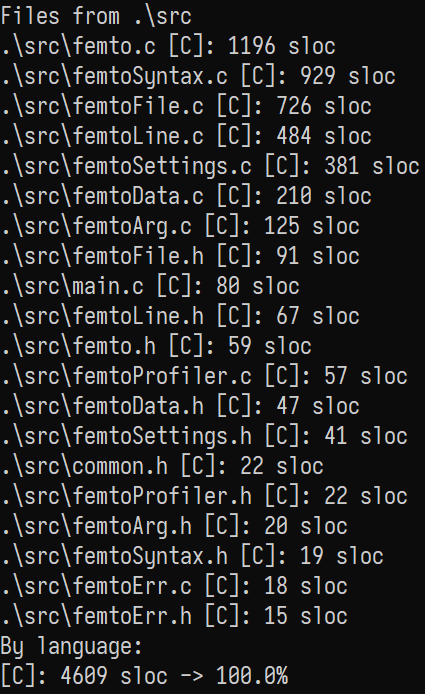
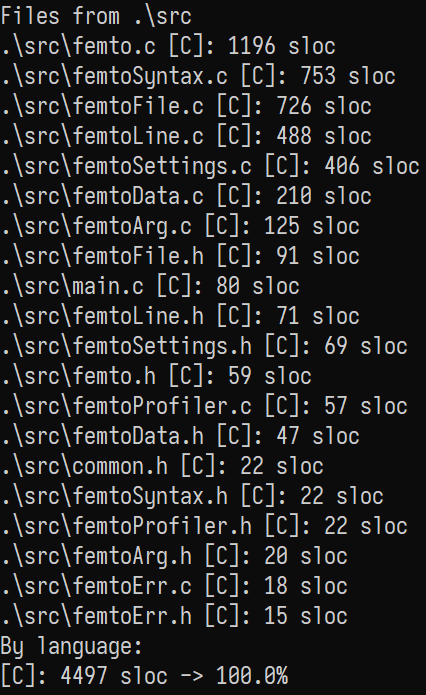
Update sloc

diff --git a/README.md b/README.md
@@ -13,7 +13,7 @@ It is also written in vanilla C & Win32 Console API - it's designed to be used s
 It has been compiled with MinGW GCC.
 
 Currently, my other tool [slocWin32](https://github.com/makuke1234/slocWin32)
-reports ~4700 source code lines (excluding whitespace, comments & [jsonlite2](https://github.com/makuke1234/jsonlite2) library):
+reports ~4500 source code lines (excluding whitespace, comments & [jsonlite2](https://github.com/makuke1234/jsonlite2) library):
 
 ![SLOC](./images/sloc.png)
 
@@ -88,7 +88,7 @@ reports ~4700 source code lines (excluding whitespace, comments & [jsonlite2](ht
 	| `femto` \[options\] \[file\]        | Starts editor with the specified file,<br>does not have to exist<br>*where \[file\] is the file's name* |
 	| `femto` \[options\] --file=\[file\] | Same as above, just a different syntax                                                                  |
 	| `femto` --help                      | Shows help<br>![help image](./images/help.png)                                                          |
-- [x] About options:
+- [x] Command-line options:
 	* Basic option syntax:
 		*	| Syntax         | Description           |
 			| -------------- | --------------------- |
@@ -102,7 +102,7 @@ reports ~4700 source code lines (excluding whitespace, comments & [jsonlite2](ht
 		* `--`\[option\]`=`\[argument 1\]`;`\[argument 2\]`;`\[argument 3\]
 	* A question mark can also be used as a separator:
 		* `--`\[option\]`=`\[argument 1\]`?`\[argument 2\]`?`\[argument 3\]
-- [x] List of options:
+- [x] Option list:
 	| Option                        | Description                                         |
 	| ----------------------------- | --------------------------------------------------- |
 	| --help                        | Shows help                                          |
